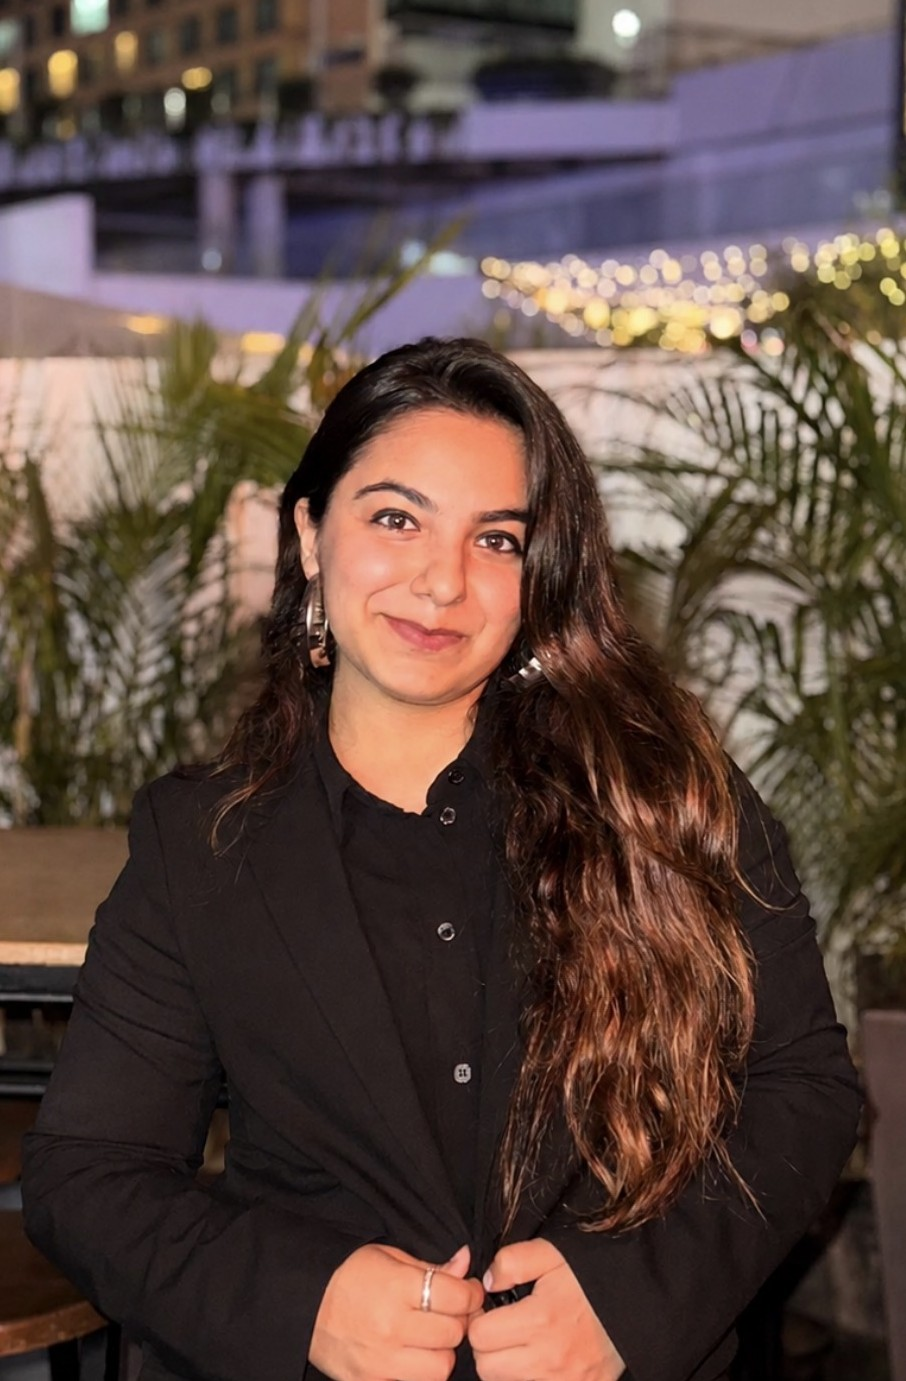
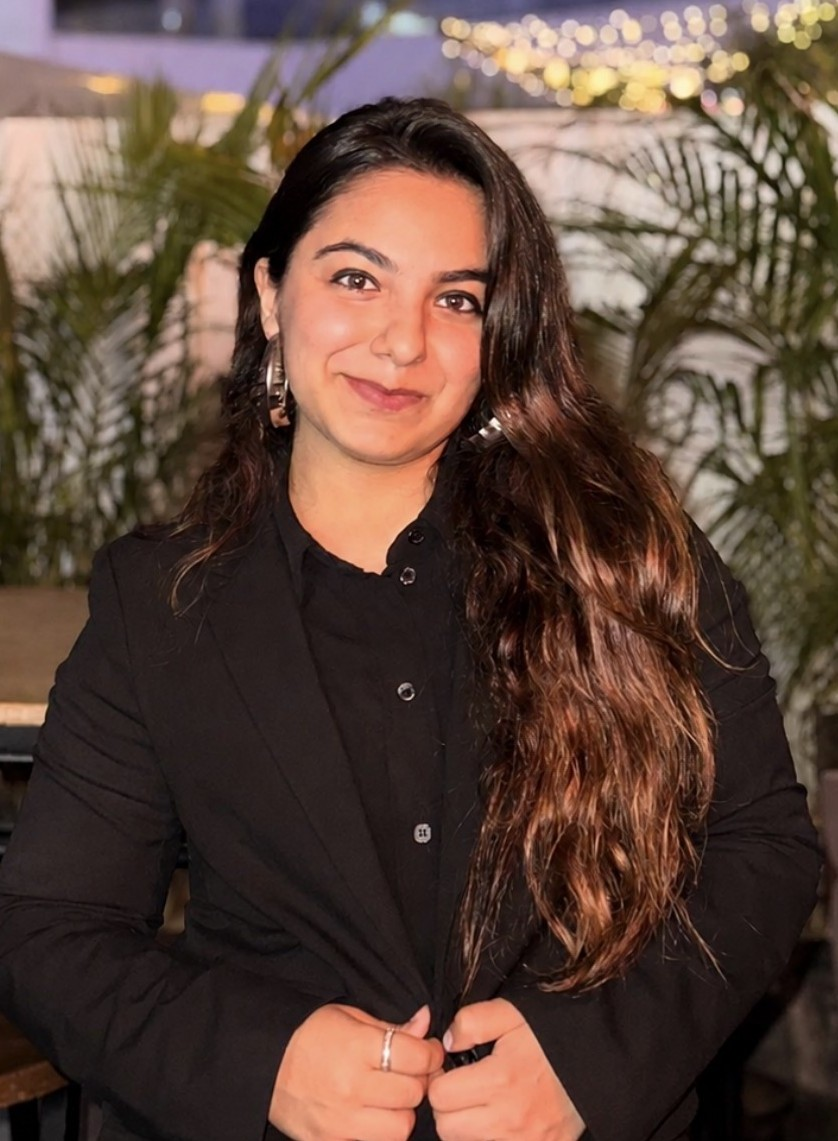
Fix critical bugs: error handling, auth validation, contact forms, and image display
- Add error handling to handleSave, delete, and toggleFeatured in AdminPanel
- Fix phantom login state by validating real Supabase session
- Fix infinite reload loop by only reloading on successful seed
- Fix contact forms to show errors when save fails
- Remove double confirmation dialog for Reset
- Update README to clarify Supabase vs local auth credentials
- Connect homepage Projects section to CMS data instead of hardcoded
- Fix About section image cropping by increasing height and using object-top

diff --git a/src/App.tsx b/src/App.tsx
@@ -309,8 +309,8 @@ function About() {
     <section id="about" ref={ref} className="bg-white py-16 sm:py-28 px-6 lg:px-10">
       <div className="max-w-7xl mx-auto grid lg:grid-cols-2 gap-10 lg:gap-16 items-center">
         <div className="sr-l relative">
-          <div className="relative rounded-2xl overflow-hidden shadow-2xl h-[300px] sm:h-[400px] lg:h-[540px]">
-            <img src={infinityAWingImg} alt="Chanda's Group Infinity Tower A Wing" className="w-full h-full object-cover" />
+          <div className="relative rounded-2xl overflow-hidden shadow-2xl h-[400px] sm:h-[500px] lg:h-[650px]">
+            <img src={infinityAWingImg} alt="Chanda's Group Infinity Tower A Wing" className="w-full h-full object-cover object-top" />
             <div className="absolute inset-0 bg-gradient-to-t from-[#050e1a]/60 to-transparent" />
           <div className="absolute bottom-6 sm:bottom-8 left-6 sm:left-8 right-6 sm:right-8">
               <div className="text-white/60 text-[10px] sm:text-xs tracking-[0.3em] uppercase mb-1.5 font-corsiva italic">Landmark Project</div>
@@ -544,13 +544,32 @@ function ProjCard({ p, big=false, onClick }: { p:Proj; big?:boolean; onClick?:()
   );
 }
 
-function Projects({ onOpenPortal }: { onOpenPortal: () => void }) {
+function Projects({ listings, onOpenPortal }: { listings: Listing[]; onOpenPortal: () => void }) {
   const [tab, setTab] = useState<'c'|'u'>('c');
   const [detail, setDetail] = useState<Proj|null>(null);
   const ref = useRef<HTMLElement>(null);
   useScrollReveal(ref);
-  const list = tab==='c' ? COMPLETED : UPCOMING;
-  const shown = list;
+  
+  // Convert CMS listings to Proj format for homepage display
+  const convertToProj = (l: Listing): Proj => ({
+    name: l.title.replace(/ – .*$/, ''), // Remove wing suffix for cleaner display
+    sub: l.wing || l.type.charAt(0).toUpperCase() + l.type.slice(1),
+    loc: l.locality,
+    area: l.totalArea || l.carpetArea || '—',
+    units: l.flats ? `${l.flats} Flats` : l.shops ? `${l.shops} Shops` : 'Residential',
+    img: l.images[0] || 'https://images.pexels.com/photos/323780/pexels-photo-323780.jpeg?auto=compress&cs=tinysrgb&w=700',
+    badge: l.badge || undefined,
+    dark: l.badge === 'Flagship' || l.badge === 'Luxury',
+    floorPlan: l.floorPlan,
+    brochure: l.brochure,
+  });
+  
+  // Filter listings by category instead of using hardcoded arrays
+  const list = listings
+    .filter(l => tab === 'c' ? l.projectCategory === 'completed' : l.projectCategory === 'upcoming')
+    .map(convertToProj);
+  
+  const shown = list.length > 0 ? list : (tab === 'c' ? COMPLETED : UPCOMING); // Fallback to hardcoded if no CMS data
   const [featured, ...rest] = shown;
 
   /* iOS-safe scroll lock for detail modal */
@@ -687,8 +706,8 @@ function Team() {
                       <img
                         src={leader.img}
                         alt={leader.name}
-                        className={`absolute inset-0 w-full h-full object-cover transition-all duration-700 group-hover:scale-105 ${isFounder ? 'grayscale-[60%] group-hover:grayscale-0' : 'grayscale-[40%] group-hover:grayscale-0'}`}
-                        style={{ objectPosition: leader.name === 'Ms. Kaira Chanda' ? '50% 8%' : '50% 0%' }}
+                        className={`absolute inset-0 w-full h-full object-cover transition-all duration-700 ${leader.name === 'Ms. Kaira Chanda' ? 'scale-100 group-hover:scale-105' : 'group-hover:scale-105'} ${isFounder ? 'grayscale-[60%] group-hover:grayscale-0' : 'grayscale-[40%] group-hover:grayscale-0'}`}
+                        style={{ objectPosition: leader.name === 'Ms. Kaira Chanda' ? '50% 45%' : '50% 0%' }}
                         loading="lazy"
                       />
                     ) : (
@@ -740,15 +759,17 @@ function Contact() {
   useScrollReveal(ref);
   const [form, setForm] = useState({ name:'', email:'', msg:'' });
   const [sent, setSent] = useState(false);
+  const [sendError, setSendError] = useState('');
   const submit = async (e: React.FormEvent) => {
     e.preventDefault();
+    setSendError('');
     try {
       await saveContactMessage({ name: form.name, email: form.email, message: form.msg });
-    } catch (err) {
-      console.error('Failed to save contact message:', err);
+      setSent(true);
+      setTimeout(() => { setSent(false); setForm({ name:'',email:'',msg:'' }); }, 4000);
+    } catch (err: any) {
+      setSendError(err.message || 'Failed to send message. Please try again.');
     }
-    setSent(true);
-    setTimeout(() => { setSent(false); setForm({ name:'',email:'',msg:'' }); }, 4000);
   };
   const inp = "w-full px-4 py-3.5 bg-white/5 border border-white/10 rounded-xl text-white text-sm placeholder-white/30 focus:outline-none focus:border-[#2d9496] focus:bg-[#2d9496]/5 transition-all";
   return (
@@ -798,6 +819,7 @@ function Contact() {
               </div>
             ) : (
               <form onSubmit={submit} className="space-y-5">
+                {sendError && <div className="p-3 bg-red-500/10 border border-red-500/30 rounded-xl text-red-400 text-sm">{sendError}</div>}
                 <div><label className="block text-white/60 text-[13px] font-medium tracking-wide uppercase mb-2">Full Name</label><input type="text" required value={form.name} onChange={e=>setForm({...form,name:e.target.value})} placeholder="Your name" className={inp} /></div>
                 <div><label className="block text-white/60 text-[13px] font-medium tracking-wide uppercase mb-2">Email</label><input type="email" required value={form.email} onChange={e=>setForm({...form,email:e.target.value})} placeholder="your@email.com" className={inp} /></div>
                 <div><label className="block text-white/60 text-[13px] font-medium tracking-wide uppercase mb-2">Message</label><textarea required rows={5} value={form.msg} onChange={e=>setForm({...form,msg:e.target.value})} placeholder="Tell us about your requirements..." className={`${inp} resize-none`} /></div>
@@ -948,7 +970,7 @@ export default function App() {
       <About />
       <Stats />
       <Values />
-      <Projects onOpenPortal={() => setPortalOpen(true)} />
+      <Projects listings={listings} onOpenPortal={() => setPortalOpen(true)} />
       <Team />
       <Contact />
       <Footer onOpenPortal={() => setPortalOpen(true)} />

diff --git a/src/components/AdminPanel.tsx b/src/components/AdminPanel.tsx
@@ -147,18 +147,24 @@ export default function AdminPanel({ listings, onSave, onClose, onReset }: Admin
 
   /* Restore session */
   useEffect(() => {
-    if (sessionStorage.getItem(SESSION_KEY) === 'true') {
-      setAuthed(true);
-      return;
-    }
-    // Check Supabase session
+    // Check Supabase session first if configured
     if (supabase) {
       getSession().then(session => {
-        if (session) setAuthed(true);
-        else emailRef.current?.focus();
+        if (session) {
+          setAuthed(true);
+          sessionStorage.setItem(SESSION_KEY, 'true');
+        } else {
+          sessionStorage.removeItem(SESSION_KEY);
+          emailRef.current?.focus();
+        }
       });
     } else {
-      emailRef.current?.focus();
+      // Fallback: check sessionStorage flag
+      if (sessionStorage.getItem(SESSION_KEY) === 'true') {
+        setAuthed(true);
+      } else {
+        emailRef.current?.focus();
+      }
     }
   }, []);
 
@@ -217,11 +223,16 @@ export default function AdminPanel({ listings, onSave, onClose, onReset }: Admin
       const { fetchListings: fetchL, seedListings: seedL } = await import('../supabaseService');
       const existing = await fetchL().catch(() => []);
       if (existing.length === 0) {
-        await seedL(DEFAULT_LISTINGS).catch(() => {});
-        window.location.reload();
+        try {
+          await seedL(DEFAULT_LISTINGS);
+          window.location.reload();
+        } catch (err: any) {
+          console.error('Auto-seed failed:', err);
+          showFlash('Failed to seed default listings. Please try again.', 'error');
+        }
       }
     })();
-  }, [authed]);
+  }, [authed, showFlash]);
 
   /* ── Dashboard helpers ────────────────────────────────── */
   const filteredListings = listings
@@ -397,6 +408,8 @@ export default function AdminPanel({ listings, onSave, onClose, onReset }: Admin
       onSave(updated);
       setView('dashboard');
       showFlash(editId ? `"${saved.title}" updated successfully.` : `"${saved.title}" published.`);
+    } catch (err: any) {
+      showFlash(`Failed to save: ${err.message || 'Unknown error'}`, 'error');
     } finally {
       setSaving(false);
     }
@@ -407,27 +420,35 @@ export default function AdminPanel({ listings, onSave, onClose, onReset }: Admin
   const handleDelete = async () => {
     if (!deleteConfirm) return;
     const l = listings.find(l => l.id === deleteConfirm);
-    // Delete from Supabase
-    if (supabase) await sbDeleteListing(deleteConfirm).catch(() => {});
-    const updated = listings.filter(l => l.id !== deleteConfirm);
-    onSave(updated);
-    setDeleteConfirm(null);
-    showFlash(`"${l?.title}" removed from listings.`);
+    try {
+      // Delete from Supabase
+      if (supabase) await sbDeleteListing(deleteConfirm);
+      const updated = listings.filter(l => l.id !== deleteConfirm);
+      onSave(updated);
+      setDeleteConfirm(null);
+      showFlash(`"${l?.title}" removed from listings.`);
+    } catch (err: any) {
+      showFlash(`Failed to delete: ${err.message || 'Unknown error'}`, 'error');
+    }
   };
 
   /* Toggle featured (Supabase + local state) */
   const toggleFeatured = async (id: string) => {
     const listing = listings.find(l => l.id === id);
     if (!listing) return;
-    // Persist to Supabase
-    if (supabase) await upsertListing({ ...listing, featured: !listing.featured }).catch(() => {});
-    const updated = listings.map(l => l.id === id ? { ...l, featured: !l.featured } : l);
-    onSave(updated);
+    try {
+      // Persist to Supabase
+      if (supabase) await upsertListing({ ...listing, featured: !listing.featured });
+      const updated = listings.map(l => l.id === id ? { ...l, featured: !l.featured } : l);
+      onSave(updated);
+    } catch (err: any) {
+      showFlash(`Failed to update featured status: ${err.message || 'Unknown error'}`, 'error');
+    }
   };
 
   /* Reset */
   const handleReset = () => {
-    if (!confirm('Reset ALL listings to defaults? This cannot be undone.')) return;
+    // No confirmation here - let parent handle it to avoid double dialog
     if (onReset) onReset();
     else onSave(DEFAULT_LISTINGS);
     showFlash('Listings reset to defaults.');

diff --git a/src/components/PropertyPortal.tsx b/src/components/PropertyPortal.tsx
@@ -5,7 +5,6 @@ import {
   Check,
 } from 'lucide-react';
 import { Listing } from '../types';
-import { supabase } from '../supabase';
 import { saveContactMessage } from '../supabaseService';
 
 interface Props { listings: Listing[]; open: boolean; onClose: () => void; }
@@ -25,6 +24,7 @@ export default function PropertyPortal({ listings, open, onClose }: Props) {
   const [enquirySent, setEnquirySent] = useState(false);
   const [enqName, setEnqName] = useState('');
   const [enqEmail, setEnqEmail] = useState('');
+  const [enqError, setEnqError] = useState('');
 
   const localities = useMemo(()=>['All',...Array.from(new Set(listings.map(l=>l.locality)))],[listings]);
 
@@ -328,7 +328,21 @@ export default function PropertyPortal({ listings, open, onClose }: Props) {
                       <button onClick={()=>{setEnquirySent(false);setEnqName('');setEnqEmail('');}} className="text-[#4ecdc4] text-xs hover:underline">Send another</button>
                     </div>
                   ) : (
-                    <form onSubmit={async e=>{e.preventDefault();try{await saveContactMessage({name:enqName,email:enqEmail||'guest@example.com',message:`Enquiry about ${detail?.title}`});}catch{}setEnquirySent(true);}} className="space-y-2.5">
+                    <form onSubmit={async e=>{
+                      e.preventDefault();
+                      setEnqError('');
+                      try {
+                        await saveContactMessage({
+                          name: enqName,
+                          email: enqEmail || 'guest@example.com',
+                          message: `Enquiry about ${detail?.title}`
+                        });
+                        setEnquirySent(true);
+                      } catch (err: any) {
+                        setEnqError(err.message || 'Failed to send enquiry. Please try again.');
+                      }
+                    }} className="space-y-2.5">
+                      {enqError && <div className="p-2 bg-red-500/10 border border-red-500/30 rounded-lg text-red-400 text-xs">{enqError}</div>}
                       <input type="text" placeholder="Your Name" required value={enqName} onChange={e=>setEnqName(e.target.value)} className="w-full bg-[#0a1930] text-white border border-white/10 px-3 py-2 text-xs rounded-xl focus:outline-none focus:border-[#2d9496] placeholder-white/20 transition-colors"/>
                       <input type="email" placeholder="Email Address" required value={enqEmail} onChange={e=>setEnqEmail(e.target.value)} className="w-full bg-[#0a1930] text-white border border-white/10 px-3 py-2 text-xs rounded-xl focus:outline-none focus:border-[#2d9496] placeholder-white/20 transition-colors"/>
                       <button type="submit" className="teal-btn w-full py-2.5 text-white text-xs font-semibold rounded-xl flex items-center justify-center gap-1.5 hover:scale-[1.02] transition-transform"><Send size={12}/><span>Send Enquiry</span></button>

diff --git a/README.md b/README.md
@@ -8,10 +8,15 @@ Official website for **Chanda's Group** — Premium real estate across Mumbai, N
 
 ## 🔐 Admin Access
 
+**Local Development (No Supabase):**
 | Field | Value |
 |-------|-------|
 | Username | `admin` |
 | Password | `chanda@99` |
+
+**Production (Supabase Configured):**
+- Use your Supabase email and password
+- Or create a new admin account through the registration form
 
 **3 ways to open admin:**
 1. Click the small 🔑 key icon at the bottom-right corner of any page
